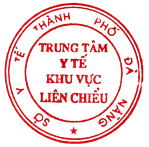
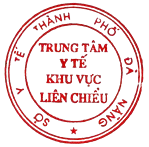
fix: stamp.png + middleware allow /assets + position stamp on left like real seal

diff --git a/src/app/records/[id]/print/page.tsx b/src/app/records/[id]/print/page.tsx
@@ -462,18 +462,19 @@ export default async function PrintRecord({ params }: { params: { id: string } }
               <div className="italic text-sm">(Ký, ghi rõ họ tên và đóng dấu)</div>
               <div style={{ minHeight: 70, position: 'relative', display: 'flex', flexDirection: 'column', alignItems: 'center', justifyContent: 'center', gap: 4 }}>
                 {record.concluderSignedAt && (
-                  /* Con dấu điện tử overlay 1/3 chữ ký */
+                  /* Con dấu đỏ - đè 1/3 chữ ký bên TRÁI (chuẩn dấu hành chính VN) */
                   /* eslint-disable-next-line @next/next/no-img-element */
                   <img
                     src="/assets/images/stamp.png"
                     alt="Con dấu"
                     style={{
                       position: 'absolute',
-                      width: 110, height: 110,
-                      left: '60%', top: '15%',
-                      opacity: 0.85,
+                      width: 130, height: 130,
+                      left: '5%', top: '20%',
+                      opacity: 0.92,
                       pointerEvents: 'none',
-                      zIndex: 1,
+                      zIndex: 2,
+                      mixBlendMode: 'multiply',
                     }}
                   />
                 )}

diff --git a/src/app/records/[id]/book/page.tsx b/src/app/records/[id]/book/page.tsx
@@ -361,11 +361,12 @@ export default async function BookRecord({ params }: { params: { id: string } })
               alt="Con dấu"
               style={{
                 position: 'absolute',
-                width: 90, height: 90,
-                right: '5%', top: '40%',
-                opacity: 0.85,
+                width: 110, height: 110,
+                left: '5%', top: '35%',
+                opacity: 0.92,
                 pointerEvents: 'none',
-                zIndex: 1,
+                zIndex: 2,
+                mixBlendMode: 'multiply',
               }}
             />
           )}

diff --git a/src/middleware.ts b/src/middleware.ts
@@ -5,7 +5,13 @@ const SECRET = new TextEncoder().encode(
   process.env.AUTH_SECRET || 'dev-secret-change-me-in-production-please-min32'
 );
 
-const PUBLIC_PATHS = ['/login', '/api/auth/login', '/setup', '/api/setup', '/api/smartca/webhook', '/_next', '/favicon.ico'];
+const PUBLIC_PATHS = [
+  '/login', '/api/auth/login',
+  '/setup', '/api/setup',
+  '/api/smartca/webhook',
+  '/_next', '/favicon.ico',
+  '/assets', // ảnh logo, con dấu, ...
+];
 
 export async function middleware(req: NextRequest) {
   const { pathname } = req.nextUrl;
